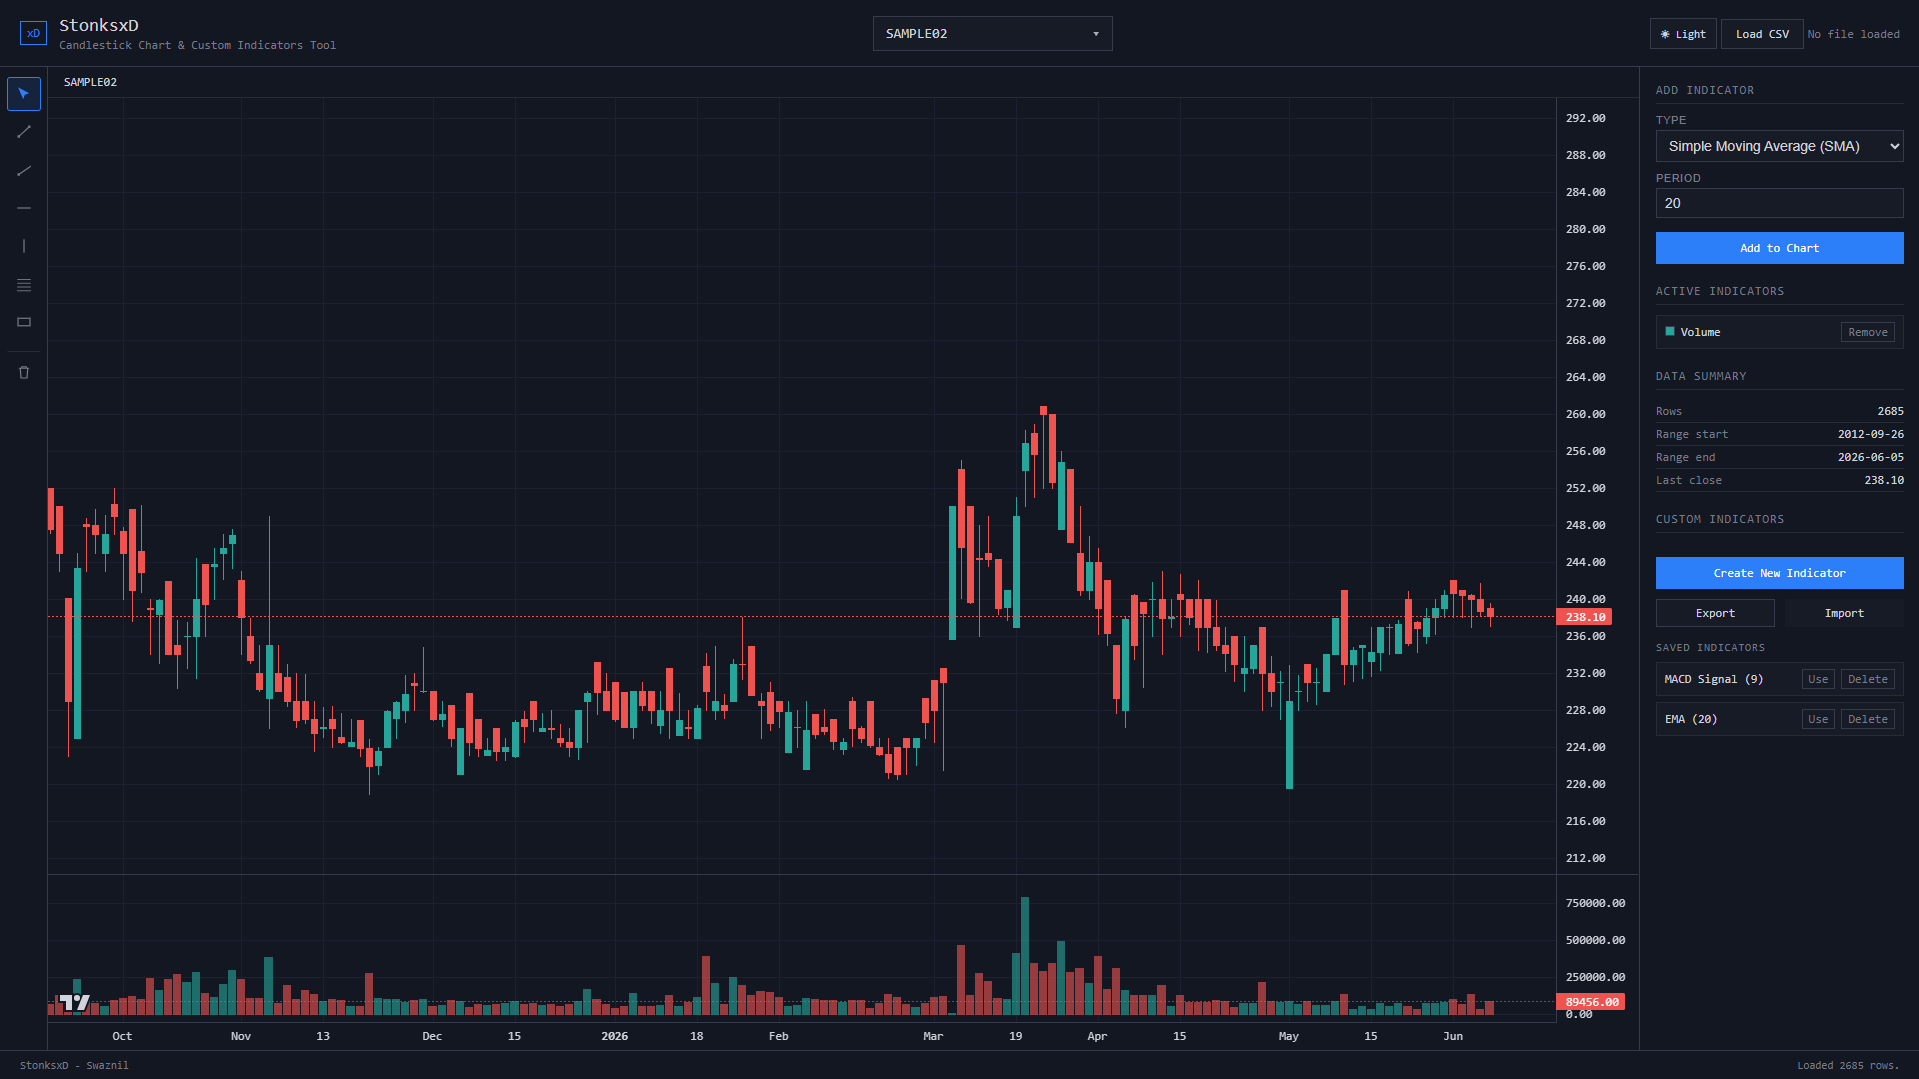
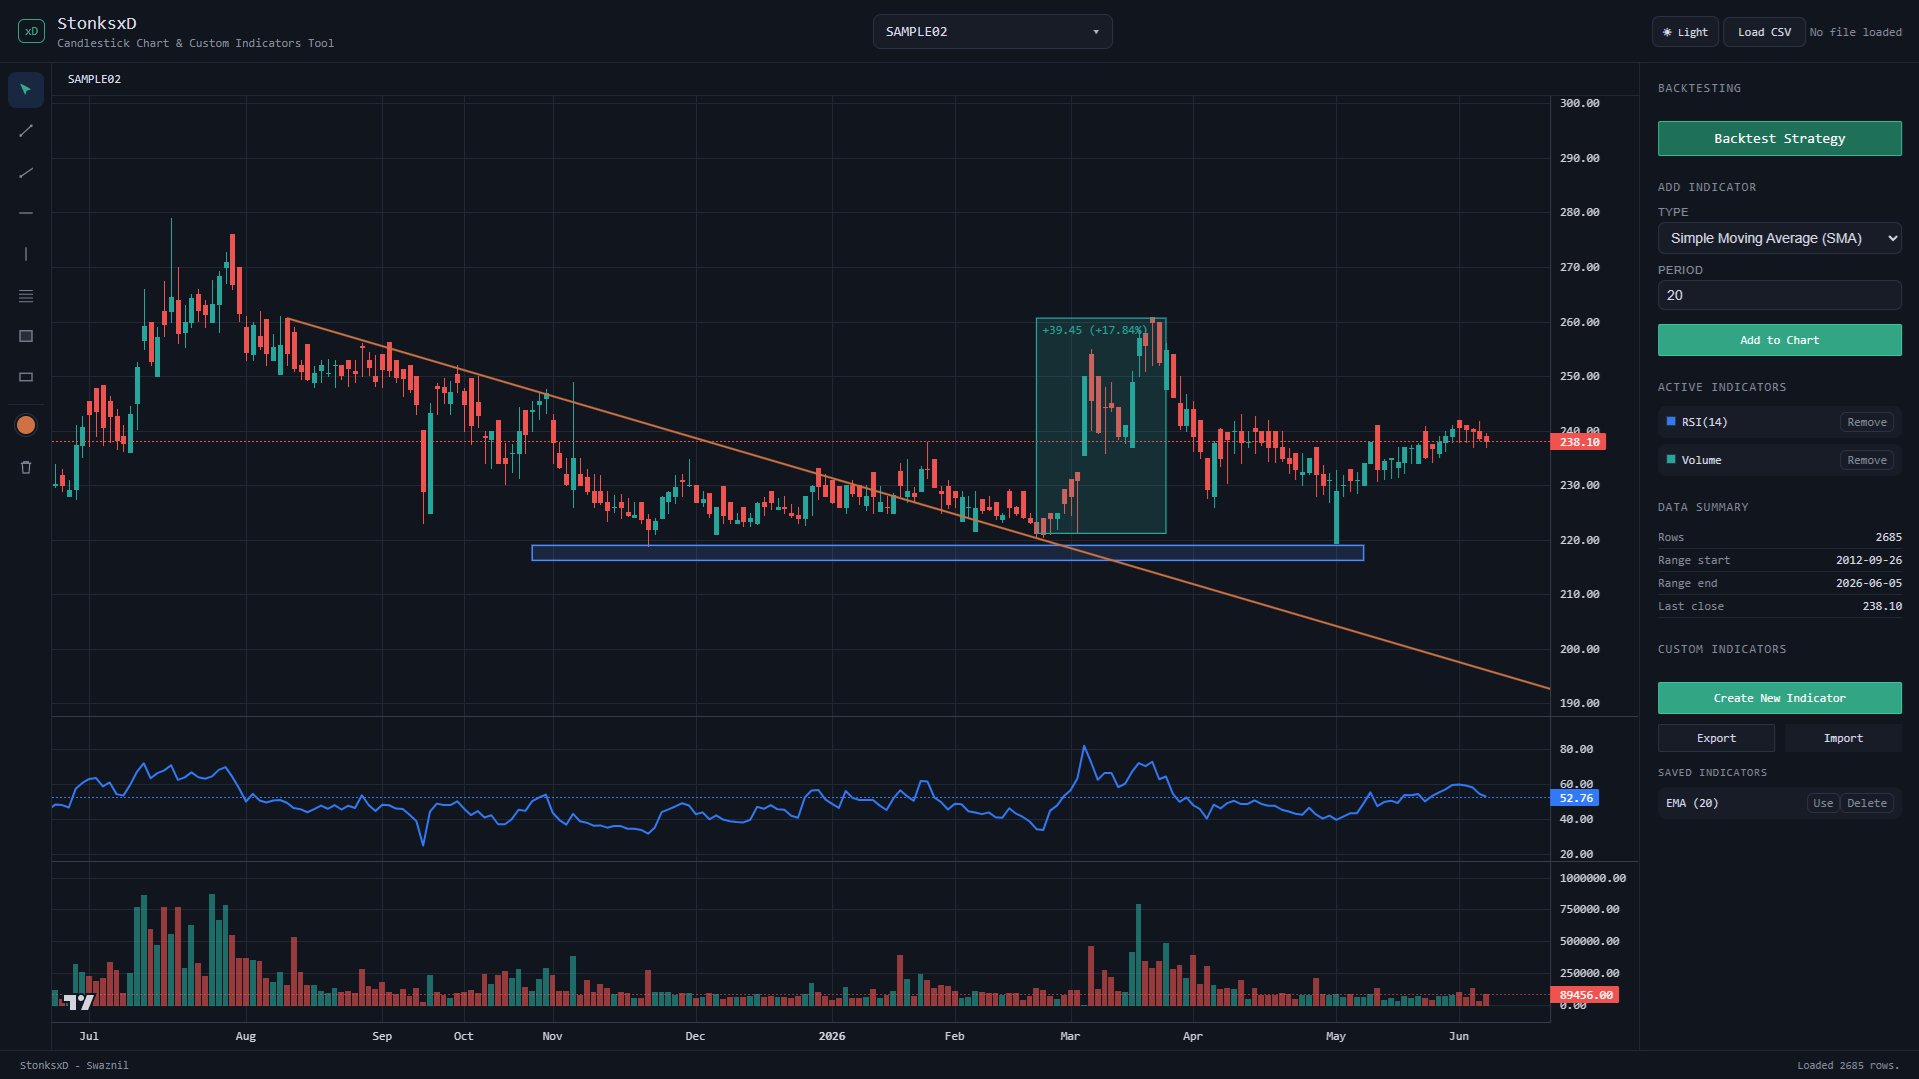
Screenshot updated

diff --git a/README.md b/README.md
@@ -63,6 +63,8 @@ stonksxd.vercel.app
 
 ![StonksxD Chart Example](assets/screenshotchart.png)
 
+![StonksxD Backtest](assests/screenshotbacktest.png)
+
 ![StonksxD Custom Indicator Builder](assets/screenshotindicator.png)
 
 ---
